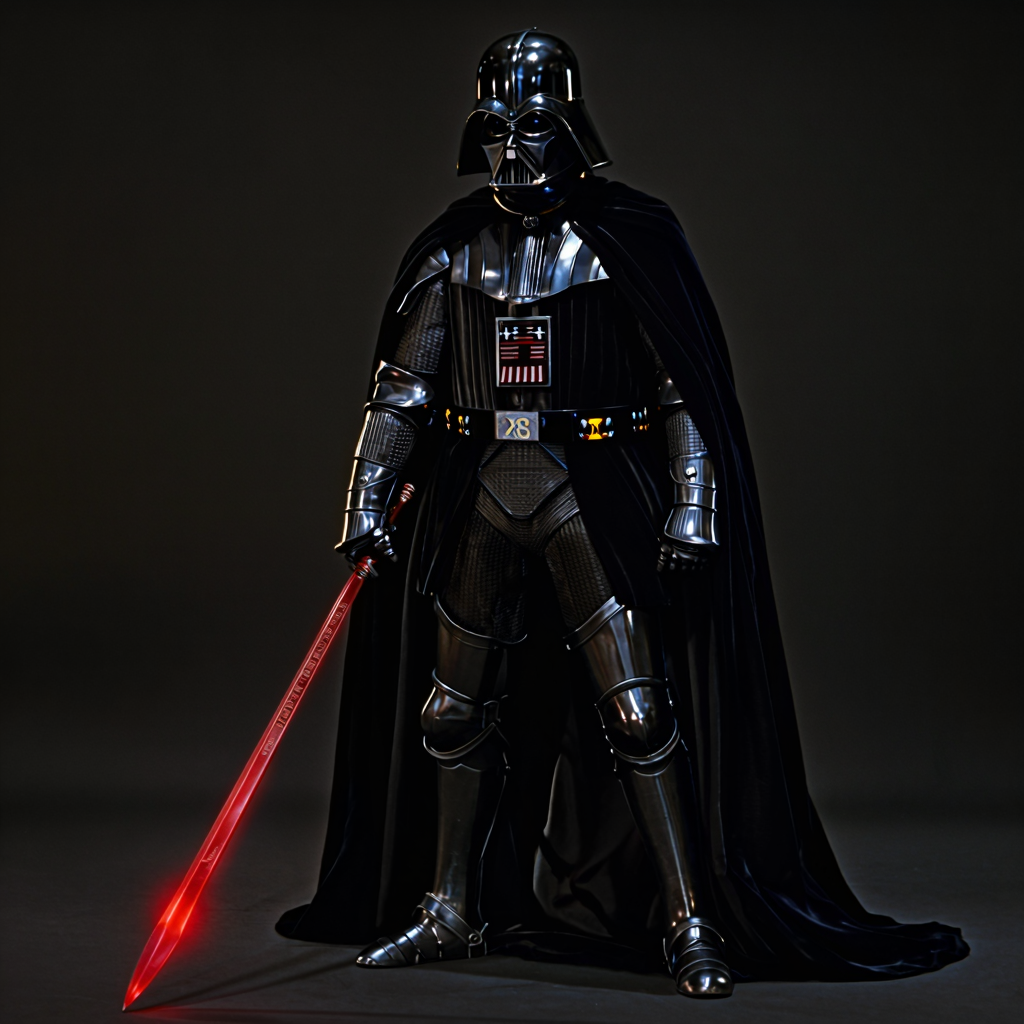
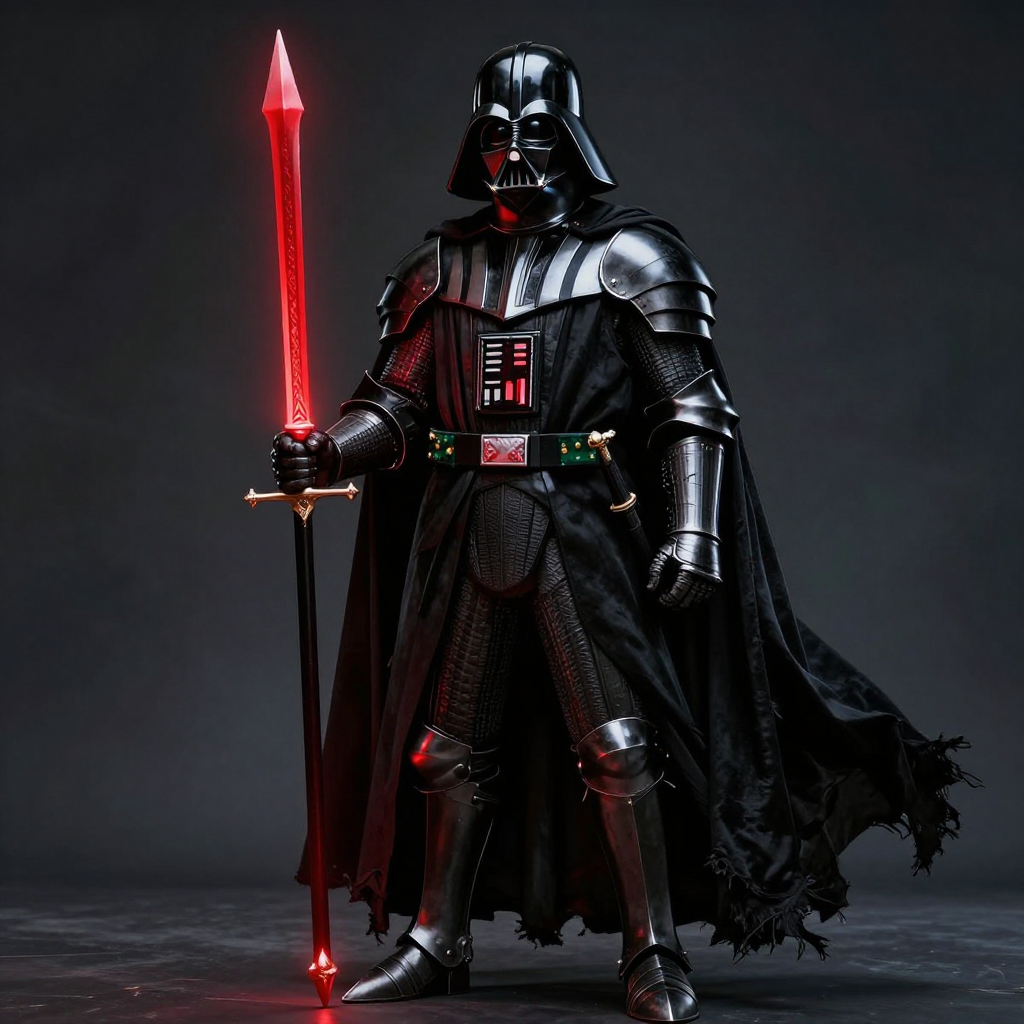
...

diff --git a/star/run.py b/star/run.py
@@ -15,8 +15,8 @@ pipe = ZImagePipeline.from_pretrained(
 pipe.to(device)
 
 # Load LoRA weights
-print("Loading LoRA: Technically-Color-Z-Image-Turbo...")
-pipe.load_lora_weights("renderartist/Technically-Color-Z-Image-Turbo")
+#print("Loading LoRA: Technically-Color-Z-Image-Turbo...")
+#pipe.load_lora_weights("renderartist/Technically-Color-Z-Image-Turbo")
 
 # [Optional] Attention Backend
 # Diffusers uses SDPA by default. Switch to Flash Attention for better efficiency if supported:
@@ -95,10 +95,10 @@ for i, prompt in enumerate(prompts):
     print(f"Generating image {i}/{len(prompts)}: {prompt[:50]}...")
     try:
         image = pipe(
-            prompt="t3chnic4lly, " + prompt,
+            prompt=prompt,
             height=1024,
             width=1024,
-            num_inference_steps=32,
+            num_inference_steps=8,
             guidance_scale=0.0,
             generator=torch.Generator(device).manual_seed(42 + i),
         ).images[0]
